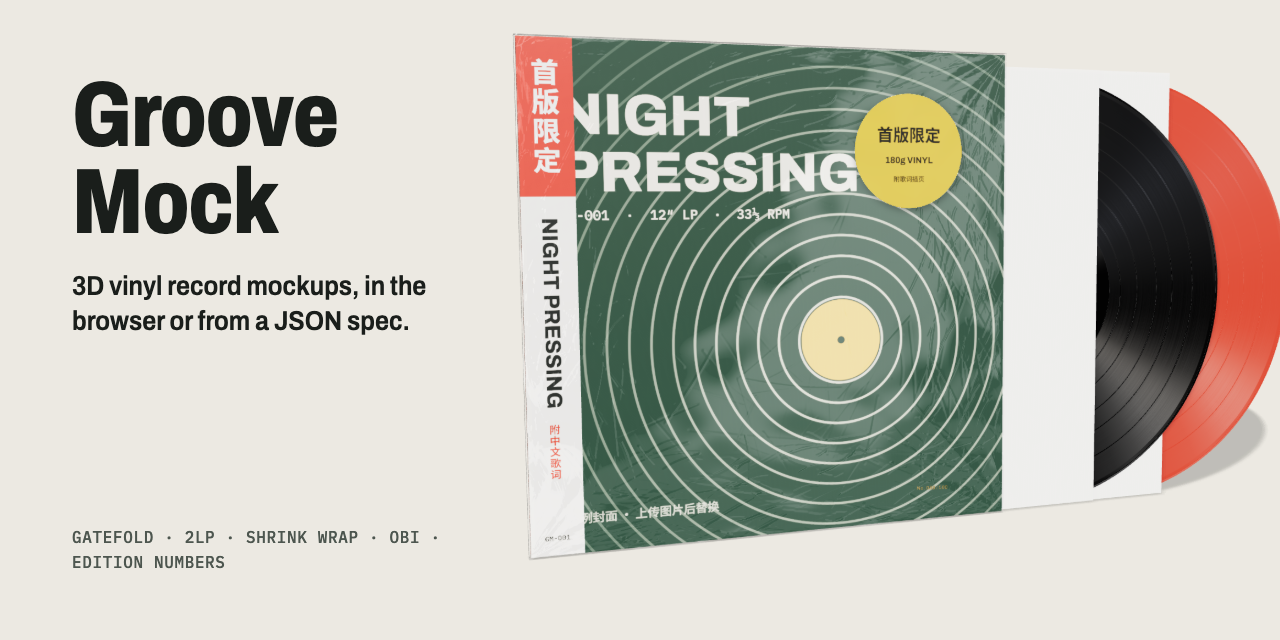
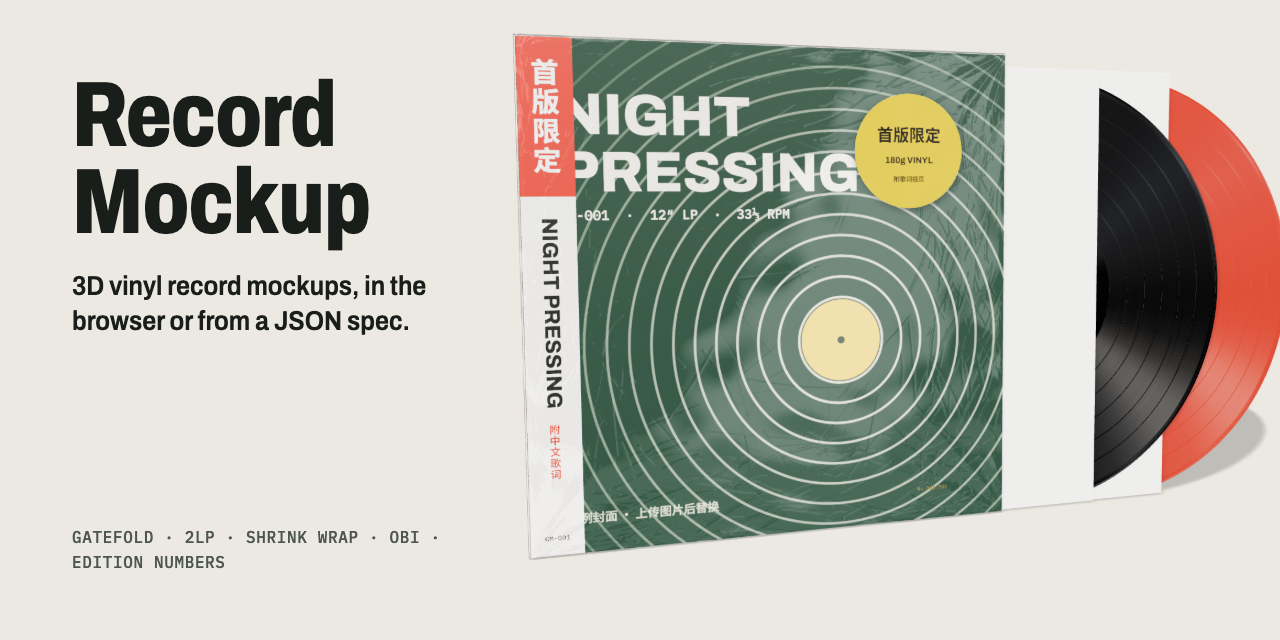
chore: rename Groove Mock to Record Mockup
The product, CLI (cli/record-mockup.mjs), package, page API
(window.recordMockup), docs and Pages URLs now use the Record Mockup
name to match the recordmockup.com domain. Social preview regenerated.

Changed region(s): [[0.0625, 0.125, 0.2812, 0.25], [0.2188, 0.2812, 0.3125, 0.4062], [0.875, 0.5625, 0.9062, 0.6562]]

diff --git a/index.html b/index.html
@@ -1,6 +1,6 @@
 <meta charset="utf-8">
 <meta name="viewport" content="width=device-width,initial-scale=1,viewport-fit=cover">
-<title>Groove Mock</title>
+<title>Record Mockup</title>
 <meta name="claude:viewport-fit-sides" content="cover">
 <link rel="preconnect" href="https://fonts.googleapis.com">
 <link rel="preconnect" href="https://fonts.gstatic.com" crossorigin>
@@ -111,7 +111,7 @@ input[type="color"]{width:34px;height:26px;padding:0;border:1px solid var(--line
 
 <div class="app">
   <header class="bar">
-    <div class="brand"><h1>Groove Mock</h1><span class="spec">12″ LP · 封套 314 × 314 mm · 唱片 Ø302 mm</span></div>
+    <div class="brand"><h1>Record Mockup</h1><span class="spec">12″ LP · 封套 314 × 314 mm · 唱片 Ø302 mm</span></div>
     <div class="views" role="group" aria-label="视角">
       <button class="chip" data-view="quarter" aria-pressed="true">斜侧</button>
       <button class="chip" data-view="front" aria-pressed="false">正面</button>
@@ -352,7 +352,7 @@ input[type="color"]{width:34px;height:26px;padding:0;border:1px solid var(--line
     <div class="row"><strong id="modal-title">PNG 已生成</strong><span class="spec" id="modal-size"></span></div>
     <img id="modal-img" alt="导出的模型图">
     <p class="note">如果点"下载"没有反应，请右键（手机长按）图片另存。</p>
-    <div class="row"><a class="primary" id="modal-dl" download="groove-mock.png" href="#" style="text-decoration:none">下载</a><button class="chip" id="modal-close">关闭</button></div>
+    <div class="row"><a class="primary" id="modal-dl" download="record-mockup.png" href="#" style="text-decoration:none">下载</a><button class="chip" id="modal-close">关闭</button></div>
   </div>
 </div>
 
@@ -1103,7 +1103,7 @@ function alertNote(msg){$('modal-title').textContent=msg;$('modal-img').hidden=t
 
 // ---------- Controls wiring ----------
 // Every control is registered against its state key, so syncUI() can redraw the whole panel from state
-// after a spec is applied through window.grooveMock.
+// after a spec is applied through window.recordMockup.
 const CONTROLS=[];
 const UNITS={pct:{toState:v=>v/100,toUI:v=>Math.round(v*100),fmt:v=>v+'%'},mm:{toState:v=>v/10,toUI:v=>Math.round(v*10),fmt:v=>v+' mm'},deg:{toState:v=>v,toUI:v=>Math.round(v),fmt:v=>v+'°'},count:{toState:v=>v,toUI:v=>Math.round(v),fmt:v=>String(v)}};
 function seg(id,key,after){CONTROLS.push({kind:'seg',id,key});const root=$(id);root.addEventListener('click',e=>{const b=e.target.closest('button');if(!b)return;state[key]=isNaN(+b.dataset.v)?b.dataset.v:+b.dataset.v;for(const x of root.children)x.setAttribute('aria-pressed',x===b);after?.()})}
@@ -1258,8 +1258,8 @@ addEventListener('keydown',e=>{if(e.key==='Escape')$('modal').hidden=true});
 
 // ---------- Scene spec + agent API ----------
 // One JSON document describes everything the panel controls, in the panel's own units (mm, %, degrees).
-// window.grooveMock applies it, renders PNGs at any size and describes itself as a JSON Schema, so a
-// headless browser (the groove-mock CLI) can drive this page without clicking anything.
+// window.recordMockup applies it, renders PNGs at any size and describes itself as a JSON Schema, so a
+// headless browser (the record-mockup CLI) can drive this page without clicking anything.
 const DEFAULT_STATE=structuredClone(state);
 const enumF=(path,key,values,desc)=>({path,key,type:'enum',values,desc});
 const numF=(path,key,min,max,k,desc,integer=false)=>({path,key,type:'number',min,max,k,desc,integer});
@@ -1362,7 +1362,7 @@ function specFromState(){
   s.output={background:state.bg==='transparent'?'transparent':state.bgColor,width:state.outW,height:state.outH};
   return s}
 function buildSchema(){
-  const root={$schema:'https://json-schema.org/draft/2020-12/schema',title:'Groove Mock scene spec',
+  const root={$schema:'https://json-schema.org/draft/2020-12/schema',title:'Record Mockup scene spec',
     description:'黑胶实物 3D 模型的场景描述。所有字段都可省略，省略即保持默认值。长度单位 mm，比例单位 %，角度单位度。',
     type:'object',additionalProperties:false,properties:{version:{const:1}}};
   const parent=p=>{let o=root;for(const k of p.split('.').slice(0,-1)){o.properties[k]??={type:'object',additionalProperties:false,properties:{}};o=o.properties[k]}return o};
@@ -1497,7 +1497,7 @@ $('lang-btn').addEventListener('click',()=>{lang=lang==='en'?'zh':'en';try{local
 const nextFrame=()=>new Promise(r=>requestAnimationFrame(()=>r()));
 const ready=fontsSettled.then(nextFrame).then(nextFrame);
 const toDataUrl=blob=>new Promise((res,rej)=>{const r=new FileReader();r.onload=()=>res(r.result);r.onerror=()=>rej(r.error);r.readAsDataURL(blob)});
-window.grooveMock={
+window.recordMockup={
   version:1,ready,
   schema:buildSchema,
   slots:slotGuide,

diff --git a/tools/bake-vinyl-masks.py b/tools/bake-vinyl-masks.py
@@ -1,5 +1,5 @@
 #!/usr/bin/env python3
-"""Bake VinylLab mask masters into runtime vinyl pattern masks for Groove Mock.
+"""Bake VinylLab mask masters into runtime vinyl pattern masks for Record Mockup.
 
 Masters stay outside the repo (16-bit field.png + RGB layers.png + meta.json per set). Each baked
 mask is an 8-bit RGB PNG whose R/G/B channels are the accent1..3 soft masks, cropped so the disc

diff --git a/README.md b/README.md
@@ -1,14 +1,14 @@
-# Groove Mock — 3D Vinyl Record Mockup Generator
+# Record Mockup — 3D Vinyl & LP Mockup Generator
 
 **English** · [简体中文](README.zh-CN.md)
 
-Groove Mock renders photorealistic **3D vinyl record mockups**: LP jackets, gatefolds, 2LP sets, shrink wrap, hype stickers, obi strips and limited-edition numbers. Use it in the browser to build a release visual by hand, or drive the same renderer from a JSON scene spec through a CLI that AI coding agents can operate.
+Record Mockup renders photorealistic **3D vinyl record mockups**: LP jackets, gatefolds, 2LP sets, shrink wrap, hype stickers, obi strips and limited-edition numbers. Use it in the browser to build a release visual by hand, or drive the same renderer from a JSON scene spec through a CLI that AI coding agents can operate.
 
-**[Try it in your browser →](https://oceanjustinlin.github.io/groove-mock/)** No install or sign-up needed; your artwork never leaves your machine.
+**[Try it in your browser →](https://oceanjustinlin.github.io/record-mockup/)** No install or sign-up needed; your artwork never leaves your machine.
 
 ![3D vinyl mockup of a 2LP release in shrink wrap with a hype sticker, obi strip, foil edition number, black and red vinyl pulled from inner sleeves](docs/images/hero.jpg)
 
-<sub>All images in this README are rendered by Groove Mock from its built-in sample artwork. Specs live in [`docs/specs/`](docs/specs/).</sub>
+<sub>All images in this README are rendered by Record Mockup from its built-in sample artwork. Specs live in [`docs/specs/`](docs/specs/).</sub>
 
 ## What it renders
 
@@ -33,11 +33,11 @@ Typical uses: pre-order announcements, store and Bandcamp listings, label catalo
 
 **Browser editor.** `index.html` is a single-page editor: upload artwork, switch formats, pull records out, orbit the camera and export a PNG. Images are processed locally in the browser and are not uploaded anywhere.
 
-**CLI and agents.** `cli/groove-mock.mjs` opens the same page in headless Chrome and drives it through `window.grooveMock`, so the CLI output matches the editor exactly. Every option is a field in a JSON scene spec with a published JSON Schema, which makes the tool easy for AI agents such as Codex or Claude Code to operate: write a spec, render, look at the PNG, adjust, render again.
+**CLI and agents.** `cli/record-mockup.mjs` opens the same page in headless Chrome and drives it through `window.recordMockup`, so the CLI output matches the editor exactly. Every option is a field in a JSON scene spec with a published JSON Schema, which makes the tool easy for AI agents such as Codex or Claude Code to operate: write a spec, render, look at the PNG, adjust, render again.
 
 ```mermaid
 flowchart LR
-  A[Artwork + JSON spec] --> B[groove-mock render]
+  A[Artwork + JSON spec] --> B[record-mockup render]
   B --> C[Headless Chrome<br>same renderer as the editor]
   C --> D[PNG mockup]
   D -->|agent reviews the image| A
@@ -69,9 +69,9 @@ Then add `--browser chromium` to CLI commands.
 
 ```bash
 mkdir -p output
-node cli/groove-mock.mjs schema -o output/schema.json
-node cli/groove-mock.mjs slots examples/2lp-gatefold.json
-node cli/groove-mock.mjs render examples/2lp-gatefold.json -o output/example.png --json --strict
+node cli/record-mockup.mjs schema -o output/schema.json
+node cli/record-mockup.mjs slots examples/2lp-gatefold.json
+node cli/record-mockup.mjs render examples/2lp-gatefold.json -o output/example.png --json --strict
 ```
 
 The example uses the renderer's built-in sample artwork, so no album art is needed.
@@ -79,7 +79,7 @@ The example uses the renderer's built-in sample artwork, so no album art is need
 To start your own scene:
 
 ```bash
-node cli/groove-mock.mjs init -o output/spec.json
+node cli/record-mockup.mjs init -o output/spec.json
 ```
 
 Keep the images next to the spec and reference them by relative path. Register the source of every custom image under `meta.assets.<slot>.source`: `user`, `generated`, `typeset`, `composite` or `sample`. For generated images, also record the prompt.
@@ -111,7 +111,7 @@ Vinyl is set per disc under `records.disc1` and `records.disc2`. `vinyl` is `bla
 
 ## Commands
 
-Run `node cli/groove-mock.mjs --help` for every option. See also [`cli/README.md`](cli/README.md).
+Run `node cli/record-mockup.mjs --help` for every option. See also [`cli/README.md`](cli/README.md).
 
 | Command | What it does |
 |---|---|
@@ -129,11 +129,11 @@ Exit codes: `0` done, `1` error, `2` warnings under `--strict`.
 
 When only a front cover is available, [`AGENTS.md`](AGENTS.md) describes how an agent completes the rest. It inventories slots with `slots`, extracts a style card from the cover, generates text-free backgrounds with an image model using [`prompts/image-prompts.md`](prompts/image-prompts.md), typesets text such as tracklists in code, renders, reviews and records every asset's source in `meta.assets`.
 
-Groove Mock never generates a real release's front cover, and generated companion artwork is labelled as illustrative.
+Record Mockup never generates a real release's front cover, and generated companion artwork is labelled as illustrative.
 
 ## Browser editor and network use
 
-The editor is published at <https://oceanjustinlin.github.io/groove-mock/> on every push to `main` that touches the page (`.github/workflows/pages.yml` runs `node site/build.mjs`, which adds the document head, search and sharing metadata, favicon, robots.txt and sitemap).
+The editor is published at <https://oceanjustinlin.github.io/record-mockup/> on every push to `main` that touches the page (`.github/workflows/pages.yml` runs `node site/build.mjs`, which adds the document head, search and sharing metadata, favicon, robots.txt and sitemap).
 
 To run it locally, serve the page, for example from the project root:
 
@@ -156,7 +156,7 @@ This renders every spec in `docs/specs/`, writes JPEGs to `docs/images/`, and bu
 ## Verification
 
 ```bash
-node --check cli/groove-mock.mjs
+node --check cli/record-mockup.mjs
 npm test --prefix cli
 npm audit --prefix cli --omit=dev
 ```

diff --git a/README.zh-CN.md b/README.zh-CN.md
@@ -1,14 +1,14 @@
-# Groove Mock：黑胶唱片 3D 模型图生成工具
+# Record Mockup：黑胶唱片 3D 模型图生成工具
 
 [English](README.md) · **简体中文**
 
-Groove Mock 用来渲染接近实拍效果的**黑胶唱片 3D 模型图**，支持单开封套、双开封套、2LP、塑封膜、hype sticker、Obi 侧标和限量编号。你可以在浏览器里手动调整出图，也可以写一份 JSON 场景描述（spec），交给命令行工具出图。这条命令行链路也适合 Codex、Claude Code 等 AI agent 操作。
+Record Mockup 用来渲染接近实拍效果的**黑胶唱片 3D 模型图**，支持单开封套、双开封套、2LP、塑封膜、hype sticker、Obi 侧标和限量编号。你可以在浏览器里手动调整出图，也可以写一份 JSON 场景描述（spec），交给命令行工具出图。这条命令行链路也适合 Codex、Claude Code 等 AI agent 操作。
 
-**[在浏览器里直接试用 →](https://oceanjustinlin.github.io/groove-mock/)** 无需安装或注册，素材不会离开你的电脑。
+**[在浏览器里直接试用 →](https://oceanjustinlin.github.io/record-mockup/)** 无需安装或注册，素材不会离开你的电脑。
 
 ![2LP 黑胶模型图：套着塑封膜，有首版贴纸、Obi 侧标和烫金编号，一张黑胶、一张红胶从内袋抽出](docs/images/hero.jpg)
 
-<sub>本页所有配图都由 Groove Mock 用内置示例图渲染，对应的 spec 在 [`docs/specs/`](docs/specs/)。</sub>
+<sub>本页所有配图都由 Record Mockup 用内置示例图渲染，对应的 spec 在 [`docs/specs/`](docs/specs/)。</sub>
 
 ## 能做什么
 
@@ -33,11 +33,11 @@ Groove Mock 用来渲染接近实拍效果的**黑胶唱片 3D 模型图**，支
 
 **浏览器编辑器**：`index.html` 是单页编辑器，可以上传素材、切换封套形式、抽出唱片、转动视角，然后导出 PNG。图片只在浏览器本地处理，不会上传。
 
-**命令行和 agent**：`cli/groove-mock.mjs` 在后台用 Chrome 打开同一个页面，通过 `window.grooveMock` 接口驱动它，所以命令行出的图和编辑器完全一致。所有参数都是 JSON spec 里的字段，并有对应的 JSON Schema。agent 的操作方式就是：写 spec，出图，看图，调参数，再出图。
+**命令行和 agent**：`cli/record-mockup.mjs` 在后台用 Chrome 打开同一个页面，通过 `window.recordMockup` 接口驱动它，所以命令行出的图和编辑器完全一致。所有参数都是 JSON spec 里的字段，并有对应的 JSON Schema。agent 的操作方式就是：写 spec，出图，看图，调参数，再出图。
 
 ```mermaid
 flowchart LR
-  A[素材 + JSON spec] --> B[groove-mock render]
+  A[素材 + JSON spec] --> B[record-mockup render]
   B --> C[无头 Chrome<br>与编辑器同一个渲染器]
   C --> D[PNG 模型图]
   D -->|agent 看图后调整| A
@@ -69,9 +69,9 @@ cd ..
 
 ```bash
 mkdir -p output
-node cli/groove-mock.mjs schema -o output/schema.json
-node cli/groove-mock.mjs slots examples/2lp-gatefold.json
-node cli/groove-mock.mjs render examples/2lp-gatefold.json -o output/example.png --json --strict
+node cli/record-mockup.mjs schema -o output/schema.json
+node cli/record-mockup.mjs slots examples/2lp-gatefold.json
+node cli/record-mockup.mjs render examples/2lp-gatefold.json -o output/example.png --json --strict
 ```
 
 这个例子用的是渲染器内置的示例图，不需要任何真实专辑封面。
@@ -79,7 +79,7 @@ node cli/groove-mock.mjs render examples/2lp-gatefold.json -o output/example.png
 自己新建一个场景：
 
 ```bash
-node cli/groove-mock.mjs init -o output/spec.json
+node cli/record-mockup.mjs init -o output/spec.json
 ```
 
 图片和 spec 放在同一个目录，路径写相对 spec 的路径。每张自定义贴图都要在 `meta.assets.<贴图位>.source` 登记来源，可选值为 `user`、`generated`、`typeset`、`composite`、`sample`。生图素材还要记录提示词。
@@ -111,7 +111,7 @@ node cli/groove-mock.mjs init -o output/spec.json
 
 ## 命令
 
-完整参数见 `node cli/groove-mock.mjs --help` 和 [`cli/README.md`](cli/README.md)。
+完整参数见 `node cli/record-mockup.mjs --help` 和 [`cli/README.md`](cli/README.md)。
 
 | 命令 | 作用 |
 |---|---|
@@ -139,7 +139,7 @@ node cli/groove-mock.mjs init -o output/spec.json
 
 ## 浏览器页面与网络依赖
 
-在线版本：<https://oceanjustinlin.github.io/groove-mock/>。每次推送到 `main` 且改动了页面时，`.github/workflows/pages.yml` 会运行 `node site/build.mjs` 自动发布。构建脚本会补上完整的网页头部、搜索与分享元信息、网站图标、robots.txt 和 sitemap。
+在线版本：<https://oceanjustinlin.github.io/record-mockup/>。每次推送到 `main` 且改动了页面时，`.github/workflows/pages.yml` 会运行 `node site/build.mjs` 自动发布。构建脚本会补上完整的网页头部、搜索与分享元信息、网站图标、robots.txt 和 sitemap。
 
 本地运行时，可以用静态服务器打开页面，例如在项目根目录执行：
 
@@ -162,7 +162,7 @@ node docs/build-images.mjs
 ## 验证
 
 ```bash
-node --check cli/groove-mock.mjs
+node --check cli/record-mockup.mjs
 npm test --prefix cli
 npm audit --prefix cli --omit=dev
 ```

diff --git a/AGENTS.md b/AGENTS.md
@@ -1,6 +1,6 @@
-# Groove Mock：给 agent 的操作说明
+# Record Mockup：给 agent 的操作说明
 
-本目录是一个黑胶唱片 3D 模型工具。`index.html` 既是网页，也是渲染器。agent 通过命令行工具 `cli/groove-mock.mjs` 操作它：写一份 JSON 场景描述（spec），渲染出 PNG，看图后调整参数，再渲染。
+本目录是一个黑胶唱片 3D 模型工具。`index.html` 既是网页，也是渲染器。agent 通过命令行工具 `cli/record-mockup.mjs` 操作它：写一份 JSON 场景描述（spec），渲染出 PNG，看图后调整参数，再渲染。
 
 不要为了出图去改 `index.html`。所有可调的东西都在 spec 里。
 
@@ -14,9 +14,9 @@ cd cli && npm install
 
 ## 工作流程
 
-1. 查看可用字段：`node cli/groove-mock.mjs schema`。输出的是 JSON Schema，每个字段都有单位、范围、默认值和中文说明。
-2. 写 spec：把 spec 和图片放在同一个目录，图片路径写相对路径。可以从 `examples/2lp-gatefold.json` 改，也可以用 `node cli/groove-mock.mjs init -o spec.json` 生成默认模板。
-3. 渲染：`node cli/groove-mock.mjs render spec.json -o out.png --json`。
+1. 查看可用字段：`node cli/record-mockup.mjs schema`。输出的是 JSON Schema，每个字段都有单位、范围、默认值和中文说明。
+2. 写 spec：把 spec 和图片放在同一个目录，图片路径写相对路径。可以从 `examples/2lp-gatefold.json` 改，也可以用 `node cli/record-mockup.mjs init -o spec.json` 生成默认模板。
+3. 渲染：`node cli/record-mockup.mjs render spec.json -o out.png --json`。
 4. 检查：打开输出的 PNG 看效果，同时看结果里的 `warnings`。
 5. 调整：改 spec 后重新渲染。只试一两个参数时，用 `--set path=value`，不用改文件。
 
@@ -26,7 +26,7 @@ cd cli && npm install
 
 用户只给了部分素材（比如只有封面）时，按这个顺序补齐。提示词模板在 `prompts/image-prompts.md`。
 
-1. **盘点**：运行 `node cli/groove-mock.mjs slots spec.json`，看当前场景用到哪些贴图位（标 ●）、各自的尺寸、可见区域、遮挡，以及建议做法（用户提供 / 生图 / 排版 / 生图底 + 排版）。
+1. **盘点**：运行 `node cli/record-mockup.mjs slots spec.json`，看当前场景用到哪些贴图位（标 ●）、各自的尺寸、可见区域、遮挡，以及建议做法（用户提供 / 生图 / 排版 / 生图底 + 排版）。
 2. **风格卡**：先看封面，按模板第 0 节输出主色和风格描述。后面每条生图提示词都要带上它。
 3. **生成底图**：只给建议为"生图"或"生图底 + 排版"的贴图位生成，**底图不能有任何文字**，尺寸按 `slots` 的输出来。
 4. **排版文字**：曲目、标题、面号、歌词、Obi、贴纸文案用代码排版（Python 或 HTML 截图都可以），叠到底图上。文字内容来自用户给的信息；用户没给的，用明显的占位文字，不要编造曲目。
@@ -64,4 +64,4 @@ cd cli && npm install
 - 背面编号的 `number.x` 以从背后看为准，向右为正。
 - 换 `pattern.id` 不会改底色：写了 `records.discN.color` 而没写 `pattern.color` 时，纹路色按底色推算；`color` 也没写时，用这款纹路的默认配色。要固定纹路色，就写上 `pattern.color`。
 - Obi 图是一张展开图，从左到右依次为背面、书脊、正面。
-- 批量出编号图：`node cli/groove-mock.mjs numbers spec.json --from 1 --to 50 --dir out/`。
+- 批量出编号图：`node cli/record-mockup.mjs numbers spec.json --from 1 --to 50 --dir out/`。

diff --git a/cli/README.md b/cli/README.md
@@ -1,6 +1,6 @@
-# groove-mock CLI
+# record-mockup CLI
 
-用一份 JSON 场景描述（spec）渲染黑胶 3D 模型图。它在后台用 Chrome 打开上一级目录的 `index.html`，调用页面上的 `window.grooveMock` 接口，所以出图效果和网页完全一致。
+用一份 JSON 场景描述（spec）渲染黑胶 3D 模型图。它在后台用 Chrome 打开上一级目录的 `index.html`，调用页面上的 `window.recordMockup` 接口，所以出图效果和网页完全一致。
 
 ## 安装
 
@@ -14,12 +14,12 @@ npm install
 ## 命令
 
 ```bash
-node groove-mock.mjs schema -o schema.json              # 字段说明（JSON Schema）
-node groove-mock.mjs init -o spec.json                  # 生成默认 spec
-node groove-mock.mjs slots spec.json                    # 贴图位、尺寸和遮挡
-node groove-mock.mjs render spec.json -o out.png        # 渲染一张
-node groove-mock.mjs render spec.json --set number.current=88 --set camera.view=front
-node groove-mock.mjs numbers spec.json --from 1 --to 50 # 批量渲染编号图
+node record-mockup.mjs schema -o schema.json              # 字段说明（JSON Schema）
+node record-mockup.mjs init -o spec.json                  # 生成默认 spec
+node record-mockup.mjs slots spec.json                    # 贴图位、尺寸和遮挡
+node record-mockup.mjs render spec.json -o out.png        # 渲染一张
+node record-mockup.mjs render spec.json --set number.current=88 --set camera.view=front
+node record-mockup.mjs numbers spec.json --from 1 --to 50 # 批量渲染编号图
 ```
 
 通用选项：`--json` 输出一行 JSON；`--strict` 遇到场景或素材来源警告时不渲染并返回退出码 2；`--width` / `--height` 覆盖输出尺寸；`--software` 强制软件渲染；`--verbose` 显示页面错误。

diff --git a/prompts/image-prompts.md b/prompts/image-prompts.md
@@ -4,7 +4,7 @@
 
 每条生图提示词由三段拼成：**风格卡 + 贴图位模板 + 统一禁止项**。提示词用英文写，生图模型对英文的遵循度更高。
 
-各贴图位的尺寸、可见区域和遮挡，以 `node cli/groove-mock.mjs slots spec.json` 的输出为准。下面写的尺寸是默认值。
+各贴图位的尺寸、可见区域和遮挡，以 `node cli/record-mockup.mjs slots spec.json` 的输出为准。下面写的尺寸是默认值。
 
 ## 0. 风格卡（先做，不是生图）
 
